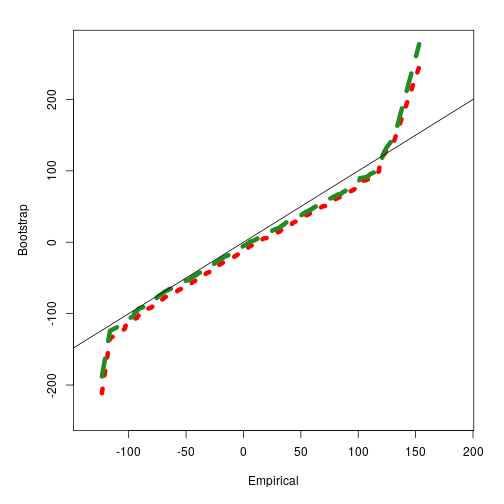
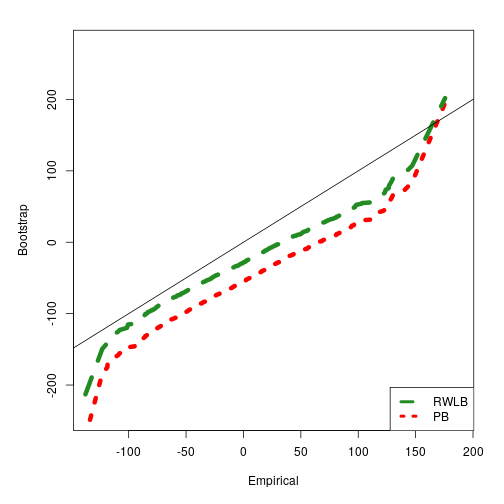
Commits of the Day

diff --git a/CLAPEM2019/index.html b/CLAPEM2019/index.html
@@ -94,14 +94,34 @@ Mixed models _link_ the expected outcome with a combination of Fixed Effects and
 This combination can be _linear_ yielding the class of generalized Linear Mixed Models. 
 
 ---
-class: center, middle
 
-### Likelihood Inference `\(\Rightarrow\)` **(Numerical) Integration** 
+# Simple(-ish) Examples: Random Intercepts
+
+### Longitudinal **Mixed Logit**
 
 .content-box-lightgrey[
-`$$\color{red}{\mathcal{L}_i\left(\mathbf{\theta}\right)}
-= 
-\color{red}{f\left(\mathbf{y}_{i}\right)} = \color{blue}{\int_{\mathbb{R}^q}} f\left(\mathbf{y}_i, \color{blue}{\mathbf{u}_i}\right) \mathrm{d} \color{blue}{\mathbf{u}_{i}} =  \int_{\mathbb{R}^q} \color{blue}{\exp \left[-\ell \left(\mathbf{y}_{i}, \mathbf{u}_{i}\right)\right]} \ \mathrm{d}\mathbf{u}_{i}$$`
+`$$p_{ij} = \mathbb{E}[Y_{ij}|\mathbf{x}_{ij}, \color{blue}{u_i}] \qquad \quad\log\frac{p_{ij}}{{1-p_{ij}}} = \mathbf{x}_{ij}^T\mathbf{\beta} + \color{blue}{\sigma_1 u_i} \qquad \quad$$`
+]
+
+--
+
+### **Accelerated Failure Time (AFT) Model**: Survival Analysis
+
+.content-box-lightgrey[
+`$$Y_{ij} = (1-\delta_{ij}) t_{ij} +  \delta_{ij} C_{ij} \qquad \quad \log t_{ij}= \mathbf{x}_{it}^T\mathbf{\beta} + \color{blue}{\sigma_1 u_i} + \phi\varepsilon_{it}$$`
+]
+
+---
+class: center, middle
+
+### Likelihood Inference `\(\Rightarrow\)` **(Numerical) Integration** (of `\(\color{\blue}{\mathbf{u}_{i}}\)` )
+
+.content-box-lightgrey[
+`\begin{align}
+\color{red}{\mathcal{L}_i\left(\mathbf{\theta}\right)}&amp;= \color{blue}{\int_{\mathbb{R}^q}} f\left(\mathbf{y}_i, \color{blue}{\mathbf{u}_i}\right) \mathrm{d} \color{blue}{\mathbf{u}_{i}}\\
+&amp;= \int_{\mathbb{R}^q} f\left(\mathbf{y}_i \vert \color{blue}{\mathbf{u}_i}\right)f\left(\color{blue}{\mathbf{u}_i}\right) \mathrm{d} \color{blue}{\mathbf{u}_{i}} \\
+&amp;=\int_{\mathbb{R}^q} \color{red}{\exp} \left[ \log f\left(\mathbf{y}_i \vert \color{blue}{\mathbf{u}_i}\right)  + \log  f\left(\color{blue}{\mathbf{u}_i}\right) \right] \ \mathrm{d}\mathbf{u}_{i}
+\end{align}`
 ]
 
 
@@ -132,9 +152,30 @@ class: center, middle
 
 ### _Residual_ Bootstrap **struggles** with **random effects** and **link function**
 
-Random effect _Predictions_ are **shrunk** towards zero. 
+.pull-left[
+Easy(-ish) in **Gaussian LMM**
 
-Easy to implement in Gaussian Linear MM. Hard, otherwise 
+.content-box-lightgrey[
+`$$\mathbf{x}_{ij}^T\widehat{\mathbf{\beta}} + \widehat{\sigma}_1\color{red}{\widehat{u}_{i}^{{\star}}} + \widehat{\phi}\color{red}{\widehat{\varepsilon}_{i}^{{\star}}} \rightarrow  y_{ij}^{\color{red}{\star}}$$`
+]
+
+&lt;img src="https://media.giphy.com/media/4JSAfzWfvMN36r1HG1/giphy.gif" style="width: 200px" /&gt;
+
+]
+
+--
+.pull-right[
+
+Not that clear **in other cases**
+
+.content-box-lightgrey[
+`$$g^{-1}(\mathbf{x}_{ij}^T \widehat{\mathbf{\beta}} + \widehat{\sigma}_1\color{red}{\widehat{u}_{i}^{{\star}}}) 
+\rightarrow  y_{ij}^{\color{red}{\star}}$$`
+]
+
+&lt;img src="https://media.giphy.com/media/xf20D8HzvTQzu/giphy.gif" style="width: 200px" /&gt;
+
+]
 
 ---
 class: center, middle
@@ -227,12 +268,18 @@ class: middle
 
 --
 
-- Can deal with **Non-Gaussian Responses** and **Censored Data**
+### <i class="fas  fa-arrow-circle-right "></i> Can deal with **Non-Gaussian Responses** and **Censored Data**
   
-- Software **implementation is straightforward**
+### <i class="fas  fa-arrow-circle-right "></i> Software **implementation is straightforward**
 
 ---
-#<i class="fas  fa-thumbs-up "></i> Flexible
+### <i class="fas  fa-thumbs-up "></i> Flexible
+
+.black[Example:] **Non-Gaussian Responses** and **Censored Data**
+
+
+---
+### <i class="fas  fa-thumbs-up "></i> Flexible
 
 .black[Example:] **Mixed Logit**
 
@@ -287,42 +334,63 @@ class: middle
 
 --
 
-- `\(\sqrt{n} \left(\widehat{\mathbf{\beta}}^{*} - \widehat{\beta}\right)\)` is <i class="fas  fa-check "></i>
+### <i class="fas  fa-arrow-circle-right "></i> `\(\sqrt{n} \left(\widehat{\mathbf{\beta}}^{*} - \widehat{\beta}\right)\)` is <i class="fas  fa-check "></i>
 
-- `\(\sqrt{n} \left(\widehat{\mathbf{\sigma}}^{*} - \widehat{\sigma}\right)\)` is <i class="fas  fa-check-circle "></i> better than **Parametric Bootstrap**
+--
 
+### <i class="fas  fa-arrow-circle-right "></i>  `\(\sqrt{n} \left(\widehat{\mathbf{\sigma}}^{*} - \widehat{\sigma}\right)\)` is <i class="fas  fa-check-circle "></i> 
+
+- Better than **Parametric Bootstrap (PB)**.
+- Potential for **Bias Correction**
 
 ???
 
 To illustrate these points, let me show you a comparison of the Mean Bootstrap distribution vs. the 
 
 ---
-# <i class="fas  fa-thumbs-up "></i> Correct
+### <i class="fas  fa-thumbs-up "></i> Correct
 .black[Example:] **Mixed Logit**  
 .pull-left[
-&lt;img src="index_files/figure-html/unnamed-chunk-4-1.png" style="display: block; margin: auto auto auto 0;" /&gt;
+&lt;img src="index_files/figure-html/unnamed-chunk-4-1.png" style="display: block; margin: auto;" /&gt;
 ]
 
 --
 .pull-right[
-&lt;img src="index_files/figure-html/unnamed-chunk-5-1.png" style="display: block; margin: auto auto auto 0;" /&gt;
+&lt;img src="index_files/figure-html/unnamed-chunk-5-1.png" style="display: block; margin: auto;" /&gt;
 ]
 
 ---
-# <i class="fas  fa-thumbs-up "></i> Correct
+### <i class="fas  fa-thumbs-up "></i> Correct
 
 
+.pull-left[
+&lt;img src="index_files/figure-html/unnamed-chunk-7-1.png" style="display: block; margin: auto;" /&gt;
+]
 
-![](index_files/figure-html/unnamed-chunk-7-1.png)&lt;!-- --&gt;![](index_files/figure-html/unnamed-chunk-7-2.png)&lt;!-- --&gt;
+.pull-right[
+&lt;img src="index_files/figure-html/unnamed-chunk-8-1.png" style="display: block; margin: auto;" /&gt;
+]
 
 ---
 
-![](index_files/figure-html/unnamed-chunk-8-1.png)&lt;!-- --&gt;![](index_files/figure-html/unnamed-chunk-8-2.png)&lt;!-- --&gt;
+### <i class="fas  fa-thumbs-up "></i> Correct
+.pull-left[
+&lt;img src="index_files/figure-html/unnamed-chunk-9-1.png" style="display: block; margin: auto;" /&gt;
+]
+--
+.pull-right[
+&lt;img src="index_files/figure-html/unnamed-chunk-10-1.png" style="display: block; margin: auto;" /&gt;
+]
 
 ---
-
-![](index_files/figure-html/unnamed-chunk-9-1.png)&lt;!-- --&gt;![](index_files/figure-html/unnamed-chunk-9-2.png)&lt;!-- --&gt;
-
+### <i class="fas  fa-thumbs-up "></i> Correct
+.pull-left[
+&lt;img src="index_files/figure-html/unnamed-chunk-11-1.png" style="display: block; margin: auto;" /&gt;
+]
+--
+.pull-right[
+&lt;img src="index_files/figure-html/unnamed-chunk-12-1.png" style="display: block; margin: auto;" /&gt;
+]
 
 ---
 ## 2. **Correct**
@@ -395,7 +463,7 @@ class: center, middle
 
 ```
 ## &lt;!-- html table generated in R 3.6.1 by xtable 1.8-4 package --&gt;
-## &lt;!-- Wed Nov 27 19:43:23 2019 --&gt;
+## &lt;!-- Fri Nov 29 11:51:30 2019 --&gt;
 ## &lt;table border=1&gt;
 ## &lt;caption align="top"&gt; Parameter Estimates and Standard Errors for the Mixed Poisson Model. &lt;/caption&gt;
 ##   \ &amp; \ &amp; \multicolumn{2}{c}{Bootstrap Averages} &amp;  &amp; \multicolumn{2}{c}{Bootstrap S.D.} \\
@@ -416,7 +484,7 @@ class: center, middle
 
 ```
 ## % latex table generated in R 3.6.1 by xtable 1.8-4 package
-## % Wed Nov 27 19:43:23 2019
+## % Fri Nov 29 11:51:30 2019
 ## \begin{table}[ht]
 ## \centering
 ## \caption{Confidence intervals for the parameters of the Mixed Poisson Model.} 
@@ -468,7 +536,7 @@ class: center, middle
 # Things
 
 
-![](index_files/figure-html/unnamed-chunk-15-1.png)&lt;!-- --&gt;
+![](index_files/figure-html/unnamed-chunk-18-1.png)&lt;!-- --&gt;
 
 ---
 class: inverse, center, middle
